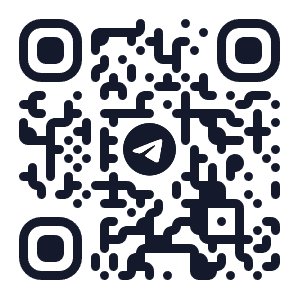
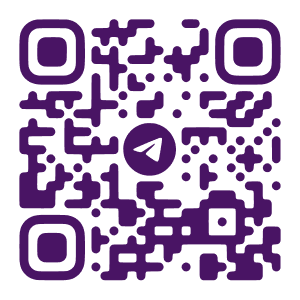
upds

diff --git a/services/app/src/pages/onboarding/elements/welcome-bonus/WelcomeBonus.tsx b/services/app/src/pages/onboarding/elements/welcome-bonus/WelcomeBonus.tsx
@@ -1,0 +1,91 @@
+import { HeroThugCoin, TicketEmoji } from "@assets";
+import { AlertStatus, AnimatedSquares, Button, ButtonStyle, PageTitleBackground, PageTitleBackgroundColor, TelegramEmoji, TelegramEmojiSize, TelegramEmojiType } from "@components";
+import { DotLottieReact } from "@lottiefiles/dotlottie-react";
+import { useAlerts, useTelegram } from "@providers";
+import { FlexGapColumn8, FlexGapColumn8FullWidth, FlexGapRow12FullWidth, FlexGapRow8, TextColor, TextSRegular, TextXLMedium, TextXSRegular, TextXXLMedium, classJoiner } from "@utils";
+import { FC, useEffect } from "react";
+import styles from "./styles.module.css";
+
+export const WelcomeBonus: FC = () => {
+    
+    const { triggerHapticFeedback } = useTelegram()
+    const { sendAlert } = useAlerts()
+
+    useEffect(() => {
+        const to = setTimeout(() => {
+            triggerHapticFeedback({ type: "impact", impact_style: "heavy" })
+        }, 100)
+        return () => clearTimeout(to)
+    }, [])
+
+    function onClaim () {
+        sendAlert({
+            message: 'You got +3 000 points +5 tickets',
+            status: AlertStatus.Success,
+        })
+    }
+
+    return (
+        <div className={styles.wrapper}>
+
+            <div className={styles.confetti_bg}>
+                <DotLottieReact
+                    src="/animations/streak_confetti.lottie"
+                    loop
+                    autoplay
+                />
+            </div>
+
+            <div className={styles.content_wrapper}>
+                <div className={styles.content}>
+
+                    <PageTitleBackground color={PageTitleBackgroundColor.Purple} className={styles.background}/>
+
+                    <TelegramEmoji size={TelegramEmojiSize.XXLarge} type={TelegramEmojiType.Handwave}/>
+
+                    <div className={FlexGapColumn8.className}>
+                        <h3 className={TextXXLMedium.className}>
+                            Welcome!
+                        </h3>
+                        <p className={TextXSRegular.className}>
+                            Hey, take your welcome points and tickets
+                        </p>
+                    </div>
+
+
+                    <div className={FlexGapRow12FullWidth.className}>
+                        <div className={classJoiner(FlexGapColumn8FullWidth.className, styles.reward)}>
+                            <p className={TextSRegular.update({ color: TextColor.Grey400 }).className}>
+                                Bonus $LEAPs
+                            </p>
+                            <div className={FlexGapRow8.className}>
+                                <HeroThugCoin width={40} height={40}/>
+                                <p className={TextXLMedium.className}>
+                                    {Number(3000).format()}
+                                </p>
+                            </div>
+                        </div>
+                        <div className={classJoiner(FlexGapColumn8FullWidth.className, styles.reward)}>
+                            <p className={TextSRegular.update({ color: TextColor.Grey400 }).className}>
+                                Game Tickets
+                            </p>
+                            <div className={FlexGapRow8.className}>
+                                <TicketEmoji width={40} height={40}/>
+                                <p className={TextXLMedium.className}>
+                                    {Number(5).format()}
+                                </p>
+                            </div>
+                        </div>
+                    </div>
+
+                    <AnimatedSquares/>
+
+                </div>
+            </div>
+
+            <Button style={ButtonStyle.Primary} fillFullWidth onClick={onClaim} linkTo="/streak">
+                Take and continue
+            </Button>
+        </div>
+    )
+}

diff --git a/services/app/src/pages/home/components/hourly-reward/HourlyReward.tsx b/services/app/src/pages/home/components/hourly-reward/HourlyReward.tsx
@@ -4,7 +4,7 @@ import { AlertStatus, Button, ButtonStyle, StickyPanel, TelegramEmoji, TelegramE
 import { ApiRoutes, useData, useUnixTimestamp } from "@hooks";
 import { useAlerts, useAuth } from "@providers";
 import { postHourlyReward } from "@services";
-import { FlexGapColumn16FullWidth, FlexGapRow4, TextColor, TextMSemiBold, TextXSRegular, TimeObject } from "@utils";
+import { FlexGapColumn16FullWidth, FlexGapRow4, TextAlign, TextColor, TextMSemiBold, TextXSRegular, TimeObject } from "@utils";
 import { FC, useMemo } from "react";
 import styles from "./styles.module.css";
 
@@ -20,10 +20,10 @@ export const HourlyReward: FC = () => {
     
     const [ticketsCount, pointsCount, canClaim, timeLeft, progress] = useMemo(() => {
         if (!data) return ['0', '0.00', false, '', 50]
-        if (data.canClaim) return [data.gameTickets.format(), data.points.format(undefined, 2), true, '', 100]
+        if (data.canClaim) return [data.gameTickets.format(), data.points.format(), true, '', 100]
         const timeLeft = data.nextClaimTime - timestamp
         const progress = 1 - timeLeft / rewardPeriod
-        return [(progress * data.gameTickets).format(), (progress * data.points).format(undefined, 2), false, TimeObject.fromTimestamp(timeLeft * 1000).toDisplayString(2), Math.floor(progress * 100)]
+        return [(progress * data.gameTickets).format(), (progress * data.points).format(), false, TimeObject.fromTimestamp(timeLeft * 1000).toDisplayString(2), Math.floor(progress * 100)]
     }, [data, timestamp])
 
     async function onClaim () {
@@ -32,7 +32,7 @@ export const HourlyReward: FC = () => {
         try {
             await postHourlyReward(authToken)
             sendAlert({
-                message: `Claimed +${data.points.format(undefined, 2)} points +${data.gameTickets.format()} tickets`,
+                message: `Claimed +${data.points.format()} points +${data.gameTickets.format()} tickets`,
                 status: AlertStatus.Success,
                 withConfetti: true
             })
@@ -86,7 +86,7 @@ export const HourlyReward: FC = () => {
                         </div>
                         <div className={FlexGapRow4.className}>
                             <TelegramEmoji size={TelegramEmojiSize.Small} type={TelegramEmojiType.Time}/>
-                            <p className={TextXSRegular.update({ color: TextColor.Purple925 }).className}>
+                            <p className={TextXSRegular.update({ color: TextColor.Purple925, textAlign: TextAlign.Left }).withExtraClasses(styles.time_left)}>
                                 {timeLeft}
                             </p>
                         </div>

diff --git a/services/app/src/pages/game/components/canvas/Canvas.tsx b/services/app/src/pages/game/components/canvas/Canvas.tsx
@@ -1,6 +1,6 @@
 import { GameSlider } from "@components";
 import { useTelegram } from "@providers";
-import { ElementRef, FC, useEffect, useRef, useState } from "react";
+import { ElementRef, FC, useEffect, useMemo, useRef, useState } from "react";
 import { GameConfig, Item, tokensPool } from "../../config";
 import { GameState, useGame } from "../../providers";
 import styles from "./styles.module.css";
@@ -19,8 +19,17 @@ export const Canvas: FC = () => {
     const heroX = useRef(54)
     const isHeroActive = useRef(false)
     const isHeroEating = useRef(false)
+    const speedModifier = useRef(0)
     const magnetTimeLeftRef = useRef(0)
-    const { gameState, setGameState, addPendingScore, setMagnetTimeLeft, magnetTimeLeft } = useGame()
+    const { gameState, setGameState, addPendingScore, setMagnetTimeLeft, magnetTimeLeft, timeLeft } = useGame()
+
+    useEffect(() => {
+        if (timeLeft <= 20) {
+            if (speedModifier.current !== 2) speedModifier.current = 2
+        } else if (timeLeft <= 40) {
+            if (speedModifier.current !== 1) speedModifier.current = 1
+        }
+    }, [timeLeft])
 
     useEffect(() => {
         magnetTimeLeftRef.current = magnetTimeLeft
@@ -103,7 +112,7 @@ export const Canvas: FC = () => {
         function moveItems () {
             setItems(prev => {
                 if (prev.length === 0) return prev
-                let moved = prev.map(i => i.moveY()).filter(i => i.y <= height)
+                let moved = prev.map(i => i.moveY(2 + speedModifier.current)).filter(i => i.y <= height)
                 if (magnetTimeLeftRef.current) moved = moved.map(i => i.y >= height - 260 && Math.abs(heroX.current - i.x) <= 100 ? i.moveX(heroX.current + 16 - i.x > 0 ? 1 : -1) : i)
                 const updated: Item[] = []
                 for (let item of moved) {
@@ -143,6 +152,7 @@ export const Canvas: FC = () => {
 
     
     useEffect(() => {
+        console.log('upp')
         if (gameState !== GameState.Play) return 
         function addItem () {
             const seed = Math.floor(Math.random() * 99)
@@ -152,9 +162,9 @@ export const Canvas: FC = () => {
                 return [...prev, item]
             })
         }
-        const interval = setInterval(addItem, 500)
+        const interval = setInterval(addItem, (3 - speedModifier.current) * 200)
         return () => clearInterval(interval)
-    }, [gameState])
+    }, [gameState, speedModifier.current])
 
     useEffect(() => {
         if (gameState !== GameState.Play && gameState !== GameState.TimeExpired) return 

diff --git a/services/app/src/pages/quests/elements/quest-details/QuestDetails.tsx b/services/app/src/pages/quests/elements/quest-details/QuestDetails.tsx
@@ -1,13 +1,14 @@
 import { HeroGood, TicketEmoji } from "@assets";
 import { AlertStatus, Button, ButtonStyle, PageTitle, PageTitleBackgroundColor } from "@components";
 import { ApiRoutes, useData } from "@hooks";
-import { useAlerts, useAuth, useBottomPopup } from "@providers";
+import { useAlerts, useAuth, useBottomPopup, useTelegram } from "@providers";
 import { postClaimQuest } from "@services";
 import { QuestCompletionStatus } from "@types";
 import { FlexGapColumn16FullWidth, FlexGapRow4, TextXSRegularGrey400 } from "@utils";
-import { FC } from "react";
+import { FC, useEffect } from "react";
 import { RewardTask, Task } from "../../components";
 import styles from "./styles.module.css";
+import { useNavigate } from "react-router-dom";
 
 type QuestDetailsProps = {
     uuid: number
@@ -20,13 +21,27 @@ export const QuestDetails: FC<QuestDetailsProps> = ({ uuid }) => {
     const { sendAlert, sendApiErrorAlert } = useAlerts()
     const { authToken } = useAuth()
     const { hidePopup } = useBottomPopup()
+    const { backButton } = useTelegram()
+    const navigate = useNavigate()
+
+    useEffect(() => {
+        if (!backButton) return
+        backButton.on("click", () => {
+            hidePopup()
+        })
+        return () => {
+            backButton.on("click", () => {
+                navigate('/home')
+            })
+        }
+    }, [])
 
     async function onClaim () {
         if (!details) return
         try {
             await postClaimQuest(authToken, details.quest.uuid)
             let message: string = 'Claimed'
-            if (details.quest.rewardPoints) message += ` +${details.quest.rewardPoints.format(undefined, 2)} points`
+            if (details.quest.rewardPoints) message += ` +${details.quest.rewardPoints.format()} points`
             if (details.quest.rewardGameTickets) message += ` +${details.quest.rewardGameTickets.format()} tickets`
             if (!details.quest.rewardPoints && !details.quest.rewardGameTickets) message += ` reward successfully`
             sendAlert({ status: AlertStatus.Success, withConfetti: true, message })

diff --git a/services/app/src/pages/streak/Streak.tsx b/services/app/src/pages/streak/Streak.tsx
@@ -13,6 +13,7 @@ import styles from "./styles.module.css";
 export const StreakPage: FC = () => {
     
     const { data, mutate } = useData(ApiRoutes.GetDailyReward)
+    const { data: userProfile, mutate: mutateUser } = useData(ApiRoutes.GetUserProfile)
     const { sendAlert } = useAlerts()
     const { authToken } = useAuth()
     const { triggerHapticFeedback } = useTelegram()
@@ -22,11 +23,15 @@ export const StreakPage: FC = () => {
 
         try {
             await postDailyReward(authToken)
+            let message = 'You got'
+            if (data.points) message += ` +${data.points.toString()} points`
+            if (data.gameTickets) message += ` +${data.gameTickets.toString()} tickets`
             sendAlert({
-                message: `You got +${data.points.toString()} points`,
+                message,
                 status: AlertStatus.Success,
             })
             mutate({ ...data, canClaim: false })
+            mutateUser(userProfile ? { ...userProfile, points: userProfile.points + data.points, gameTickets: userProfile.gameTickets + data.gameTickets } : undefined)
         } catch (e) {
             sendAlert({
                 message: ApiError.isApiError(e) ? e.detail || 'Something went wrong' : 'Something went wrong',
@@ -106,7 +111,7 @@ export const StreakPage: FC = () => {
                     <div className={FlexGapRow12FullWidth.className}>
                         <div className={classJoiner(FlexGapColumn8FullWidth.className, styles.reward)}>
                             <p className={TextSRegular.update({ color: TextColor.Grey400 }).className}>
-                                Bonus $LEAPs
+                                Bonus Leaps
                             </p>
                             <div className={FlexGapRow8.className}>
                                 <HeroThugCoin width={40} height={40}/>

diff --git a/services/app/src/pages/quests/components/task/Task.tsx b/services/app/src/pages/quests/components/task/Task.tsx
@@ -108,12 +108,12 @@ export const RewardTask: FC<RewardTaskProps> = ({
 }) => {
 
     return (
-        <div className={FlexGapRow8FullWidthJustifySpaceBetween.className}>
+        <div className={FlexGapRow12FullWidth.update({ justifyContent: JustifyContent.SpaceBetween }).className}>
             <div className={classJoiner(FlexGapRow12.update({ hideOverflow: true }).className, completionStatus === QuestCompletionStatus.Claimed ? styles.half_opacity : undefined)}>
                 <div className={styles.icon}>
                     <GoldCoin width={28} height={28}/>
                 </div>
-                <div className={FlexGapColumn4AlignFlexStart.update({ hideOverflow: true }).className}>
+                <div className={FlexGapColumn4AlignFlexStart.update({ hideOverflow: true, fillFullWidth: true }).className}>
                     <p className={TextXSMedium.className}>Get reward</p>
                     <div className={FlexGapRow8.className}>
                         {
@@ -144,7 +144,7 @@ export const RewardTask: FC<RewardTaskProps> = ({
                 ?
                 <CircleIconWrapper color={CircleIconWrapperColor.Green600} icon={CheckmarkIcon}/>
                 :
-                null
+                <div/>
             }
         </div>
     )

diff --git a/services/app/src/pages/onboarding/elements/personalization/Personalization.tsx b/services/app/src/pages/onboarding/elements/personalization/Personalization.tsx
@@ -5,7 +5,11 @@ import { FlexGapColumn, TextMMedium, TextXSRegular } from "@utils";
 import { FC, useEffect, useMemo, useState } from "react";
 import styles from "./styles.module.css";
 
-export const Personalization: FC = () => {
+type Props = {
+    onNext?: () => any
+}
+
+export const Personalization: FC<Props> = ({ onNext }) => {
 
     const [progress, setProgress] = useState<number>(0)
     const { triggerHapticFeedback } = useTelegram()
@@ -133,7 +137,7 @@ export const Personalization: FC = () => {
             </div>
 
             
-            <Button style={ButtonStyle.Primary} fillFullWidth disabled={step !== 5} linkTo="/streak">
+            <Button style={ButtonStyle.Primary} fillFullWidth disabled={step !== 5} onClick={onNext}>
                 {step !== 5 ? 'Waiting...' : 'Next'}
             </Button>
 

diff --git a/services/app/src/App.tsx b/services/app/src/App.tsx
@@ -7,7 +7,7 @@ import { useEffect } from 'react';
 function App() {
 
   useEffect(() => {
-    const tgEmojis = ["bomb", "books", "champange_glasses", "gamepad", "hatching_chick", "lightning", "megaphone", "money_bag", "rocket", "rollercoaster", "time"]
+    const tgEmojis = ["handwave", "bomb", "books", "champange_glasses", "gamepad", "hatching_chick", "lightning", "megaphone", "money_bag", "rocket", "rollercoaster", "time"]
     const gameItems = ["durov", "bomb", "dollar", "frog", "gold", "hero_blown", "hero_open_magnet", "hero_open", "hero_swallow_magnet", "hero_swallow", "hero_thug", "magnet", "rocket", "slider", "ufo"]
     const bgs = ["dots", "tiles_dark", "dots_light", "triad_space"]
 

diff --git a/services/app/src/pages/qr-code/QrCode.tsx b/services/app/src/pages/qr-code/QrCode.tsx
@@ -13,12 +13,12 @@ export const QrCodePage: FC = () => {
             <h1 className={TextXLSemiBold.className}>
                 Play on your<br/>mobile
             </h1>
-            <Link className={styles.qr} to={'https://t.me/testernightbot'}>
+            <Link className={styles.qr} to={'https://t.me/leapapp_bot'}>
                 <img src='/other/tg_qr.png'/>
             </Link>
             <Link to={'https://t.me/testernightbot'}>
                 <h3 className={TextMMedium.className}>
-                    @LeapTon
+                    @LeapApp_bot
                 </h3>
             </Link>
             <HeroGood className={styles.hero}/>

diff --git a/services/app/src/pages/onboarding/Onboarding.tsx b/services/app/src/pages/onboarding/Onboarding.tsx
@@ -1,5 +1,5 @@
 import { FC, useState } from "react";
-import { Game, Hello, Leap, Learning, Personalization, Quests } from "./elements";
+import { Game, Hello, Leap, Learning, Personalization, Quests, WelcomeBonus } from "./elements";
 
 export const OnboardingPage: FC = () => {
 
@@ -30,7 +30,11 @@ export const OnboardingPage: FC = () => {
             :
             step === 6
             ?
-            <Personalization/>
+            <Personalization onNext={() => setStep(7)}/>
+            :
+            step === 7
+            ?
+            <WelcomeBonus/>
             :
             null
         }

diff --git a/services/app/src/components/loader/Loader.tsx b/services/app/src/components/loader/Loader.tsx
@@ -10,7 +10,6 @@ export const Loader: FC = () => {
             <div className={styles.circle}>
                 <svg xmlns="http://www.w3.org/2000/svg" viewBox="0 0 100 100">
                     <circle fill="none" stroke="#B51CF7" strokeDashoffset={180} stroke-width="5.45" stroke-mitterlimit="0" cx="50" cy="50" r="47.275" stroke-dasharray="360" stroke-linecap="round"/>
-                    <animateTransform attributeType="xml" attributeName="transform" type="rotate" from="0 0 0" to="360 0 0" dur="3s" additive="sum" repeatCount="indefinite" />
                 </svg>
             </div>
         </div>

diff --git a/services/app/src/components/coming-soon/ComingSoon.tsx b/services/app/src/components/coming-soon/ComingSoon.tsx
@@ -4,10 +4,15 @@ import { useCountdown } from "@hooks";
 import { FlexGapRow8, TextMSemiBold, TextXSRegularGrey400, currentTimestamp } from "@utils";
 import { FC } from "react";
 import styles from "./styles.module.css";
+import { useAuth } from "@providers";
 
-export const ComingSoon: FC = () => {
+type Props = {
+    inTime: number
+}
 
-    const { timeLeft } = useCountdown(currentTimestamp() + 7 * 24 * 60 * 60 * 1000 - 1)
+export const ComingSoon: FC<Props> = ({ inTime }) => {
+
+    const { timeLeft } = useCountdown(inTime)
 
     return (
         <div className={styles.coming_soon}>
